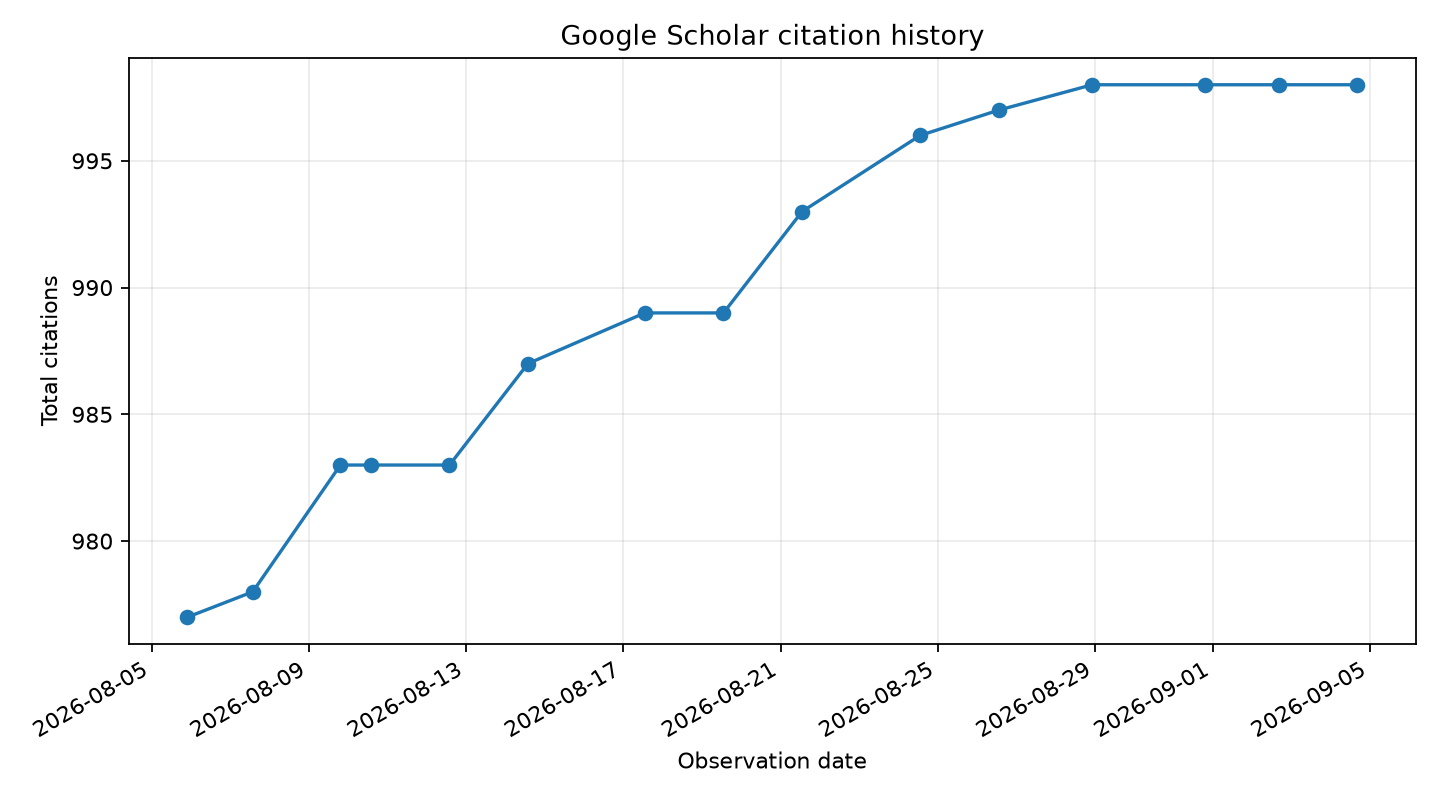
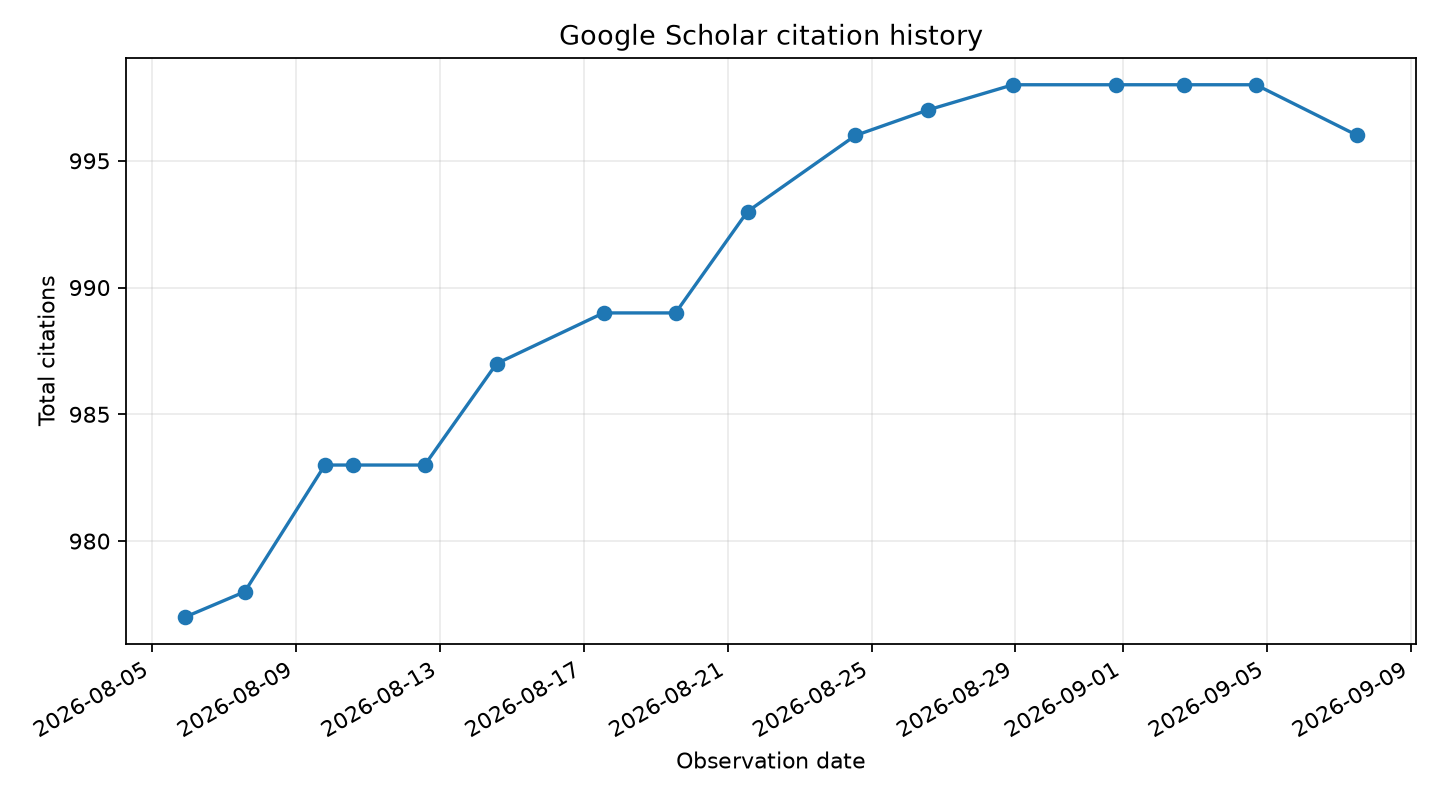
Update Google Scholar snapshot

diff --git a/reports/latest.md b/reports/latest.md
@@ -1,14 +1,19 @@
 # Latest Google Scholar snapshot
 
-Observed at `2026-09-04T16:23:01Z`.
+Observed at `2026-09-07T12:08:08Z`.
 
 | Metric | All | Recent window |
 |---|---:|---:|
-| Citations | 998 | 848 |
+| Citations | 996 | 846 |
 | h-index | 20 | 17 |
 | i10-index | 28 | 27 |
 | Publications tracked | 73 |  |
 
 ## Changes in this observation
 
-No per-publication changes were detected relative to the preceding observation.
+| Publication | Previous | Current | Change | Type |
+|---|---:|---:|---:|---|
+| Modern termites inherited the potential of collective construction from their common ancestor | 38 | 39 | +1 | citation_increase |
+| Genomic data provide insights into the classification of extant termites | 95 | 94 | -1 | citation_decrease |
+| The evolution of body size in termites | 26 | 25 | -1 | citation_decrease |
+| Termite nest evolution fostered social parasitism by termitophilous rove beetles | 15 | 14 | -1 | citation_decrease |
